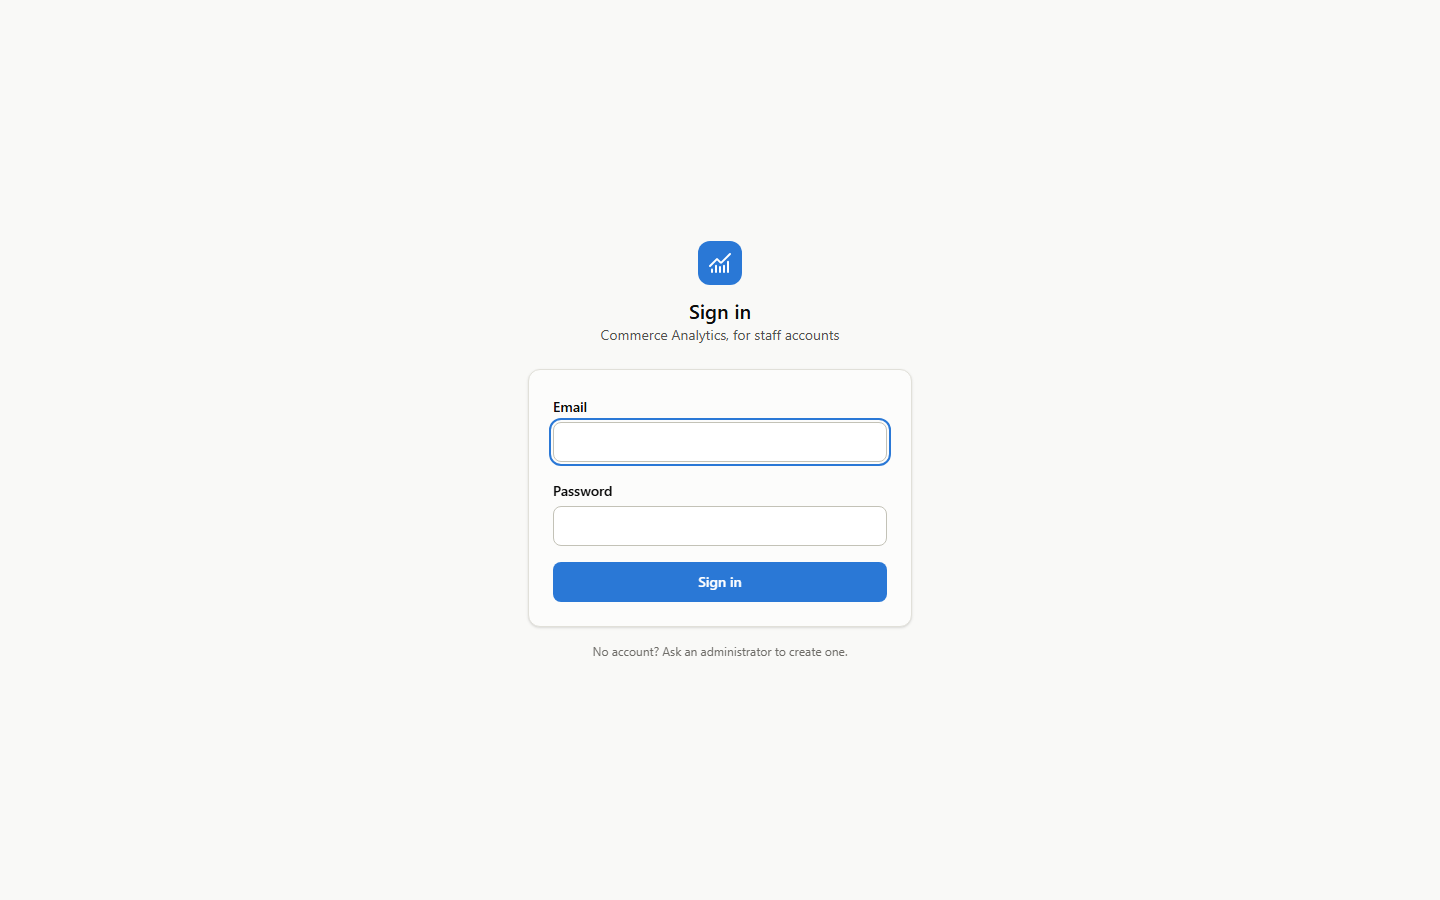
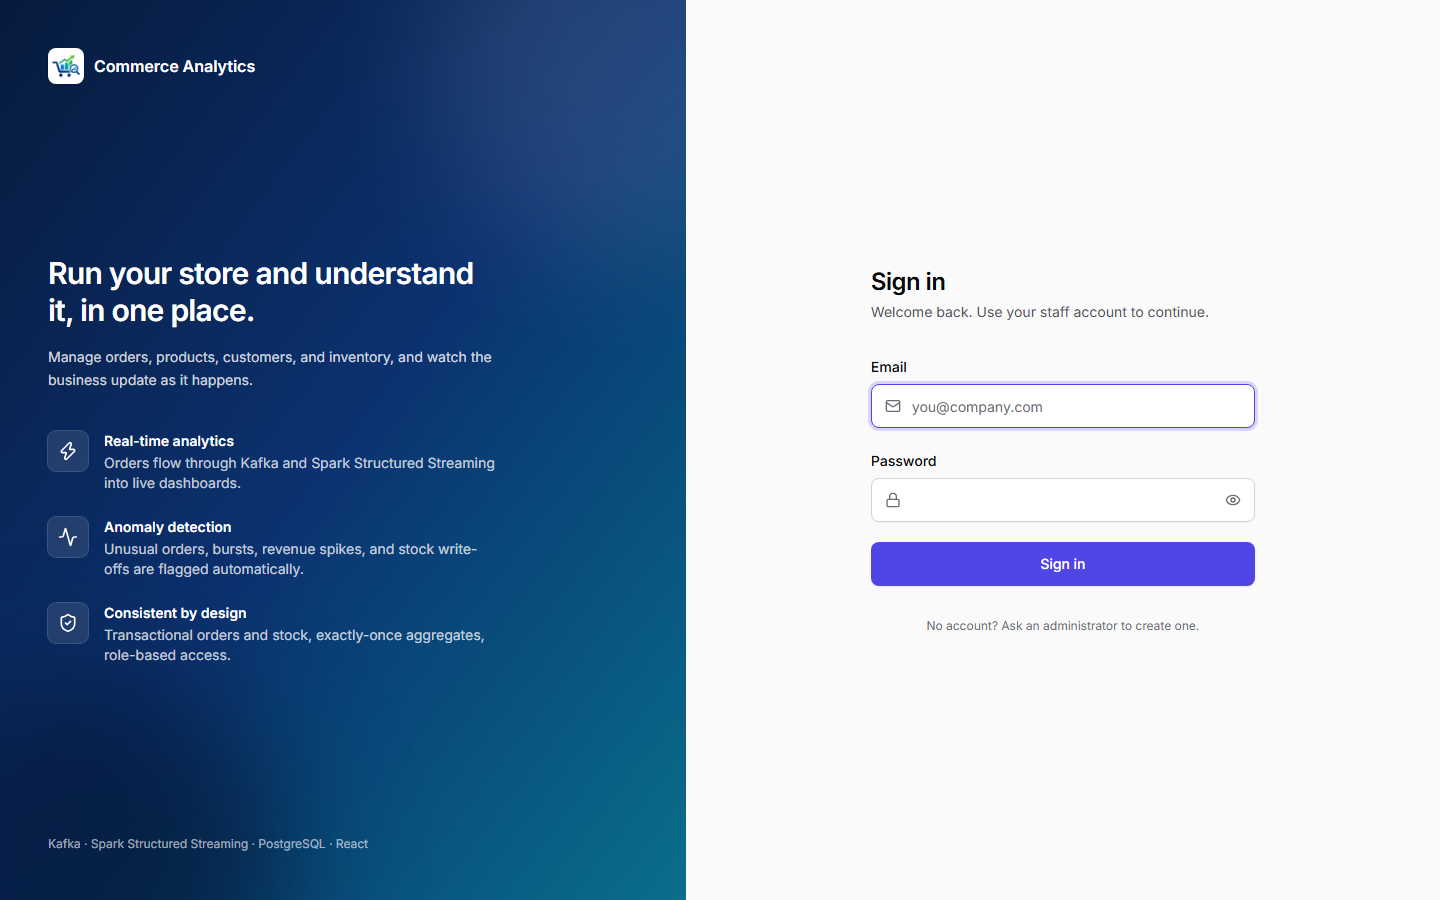
chore: prepare v1.1.0 release (changelog, refreshed screenshots)

diff --git a/CHANGELOG.md b/CHANGELOG.md
@@ -6,35 +6,7 @@ All notable changes to this project are documented here. The format follows
 
 ## [Unreleased]
 
-### Changed
-
-- Brand: the Commerce Analytics logo replaces the generic chart icon in the sidebar, on the
-  sign-in page (now a navy-to-teal panel matching the logo), in the README, and as the favicon
-  and home-screen icon.
-
-- Design system v2: neutral zinc surfaces with an indigo accent in both themes, refined
-  elevation, typography, and spacing, and subtle motion that respects reduced-motion settings.
-- Create and edit forms (products, categories, customers, users, stock adjustments) open in a
-  side drawer; confirmations show an icon and a loading state.
-- Row actions are icon buttons with tooltips; "Active" settings are switches; prices show the
-  currency symbol in the field.
-- Orders filter by status with tabs, and list filters have a "Clear filters" button.
-- The dashboard is grouped into Sales, Products and customers, and Operations sections; the
-  category panel shows the top seven categories plus "Other".
-- Toasts can carry a description and an action, and pause while hovered.
-- End-to-end tests reuse a single category instead of creating one per run.
-
-- Accessibility: higher-contrast accent color for links and primary buttons (WCAG AA in both
-  themes), muted text contrast, keyboard access to scrolling tables, underlined inline links.
-- Live activity no longer drops an event that arrives while the list is loading, and the event
-  stream opens only once the server listens for changes.
-- Frontend tests render charts at a fixed size (no more Recharts size warnings).
-
-- Redesigned interface: Inter typography, refined surfaces and elevation, skeleton loading
-  states, richer empty and error states, page headers with icons, numbered pagination, and a
-  split-screen sign-in page with a password visibility toggle.
-- App shell with a grouped, collapsible sidebar, breadcrumbs, and an account menu (theme choice,
-  shortcuts, sign out).
+## [1.1.0] - 2026-10-15
 
 ### Added
 
@@ -77,6 +49,37 @@ All notable changes to this project are documented here. The format follows
   and detected anomalies (created by database triggers; existing anomalies are backfilled).
 - Product pages: daily sales, end-of-day stock rebuilt from the ledger, days of stock left, and
   a one-click restock of the suggested quantity (`GET /api/products/:id/insights`).
+
+### Changed
+
+- Redesigned interface (design system v2), inspired by modern SaaS dashboards:
+  - Inter typography, neutral surfaces with an indigo accent, and refined elevation and
+    spacing in both themes, with subtle motion that respects reduced-motion settings.
+  - App shell with a grouped, collapsible sidebar (tooltips when collapsed), breadcrumbs, and
+    an account menu (theme choice, shortcuts, sign out).
+  - Create and edit forms (products, categories, customers, users, stock adjustments) open in a
+    side drawer; confirmations show an icon and a loading state.
+  - Row actions are icon buttons with tooltips; "Active" settings are switches; prices show the
+    currency symbol in the field.
+  - Orders filter by status with tabs, and list filters have a "Clear filters" button.
+  - The dashboard is grouped into Sales, Products and customers, and Operations sections; the
+    category panel shows the top seven categories plus "Other".
+  - Skeleton loading states, richer empty and error states, numbered pagination, and toasts
+    with an optional description and action that pause while hovered.
+  - Split-screen sign-in page with a password visibility toggle.
+- Brand: the Commerce Analytics logo in the sidebar, on the sign-in page, in the README, and as
+  the favicon and home-screen icon.
+- Accessibility: WCAG AA contrast for text, links, and primary buttons in both themes, keyboard
+  access to scrolling tables, underlined inline links, and radio-group keyboard behavior (arrow
+  keys) for tabs and segmented controls.
+- Refreshed screenshots in `docs/screenshots/`.
+
+### Fixed
+
+- Live activity no longer drops an event that arrives while the list is loading, and the event
+  stream opens only once the server listens for changes.
+- Frontend tests render charts at a fixed size (no more Recharts size warnings).
+- End-to-end tests reuse a single category instead of creating one per run.
 
 ## [1.0.0] - 2026-10-14
 
@@ -126,4 +129,6 @@ starts with `docker compose up -d --build --wait`.
 - Documentation: architecture, API, events, database, analytics, frontend, development setup,
   and troubleshooting.
 
+[Unreleased]: https://github.com/bijigunerachid/ecommerce-analytics-platform/compare/v1.1.0...HEAD
+[1.1.0]: https://github.com/bijigunerachid/ecommerce-analytics-platform/compare/v1.0.0...v1.1.0
 [1.0.0]: https://github.com/bijigunerachid/ecommerce-analytics-platform/releases/tag/v1.0.0

diff --git a/docs/frontend.md b/docs/frontend.md
@@ -287,6 +287,7 @@ elements, so every screen looks and behaves the same.
 | ![Mobile](screenshots/04-dashboard-mobile.png) | ![Orders](screenshots/05-orders.png) |
 | ![New order](screenshots/06-new-order.png) | ![Order detail](screenshots/07-order-detail.png) |
 | ![Inventory ledger](screenshots/08-inventory.png) | ![Product form](screenshots/09-product-form.png) |
+| ![Insights, dark](screenshots/10-insights-dark.png) | |
 
 The dashboard screenshots show the 90-day synthetic dataset (`npm run generate-data`) processed through the
 full pipeline (relay → Kafka → Spark). They were captured with a headless browser.
